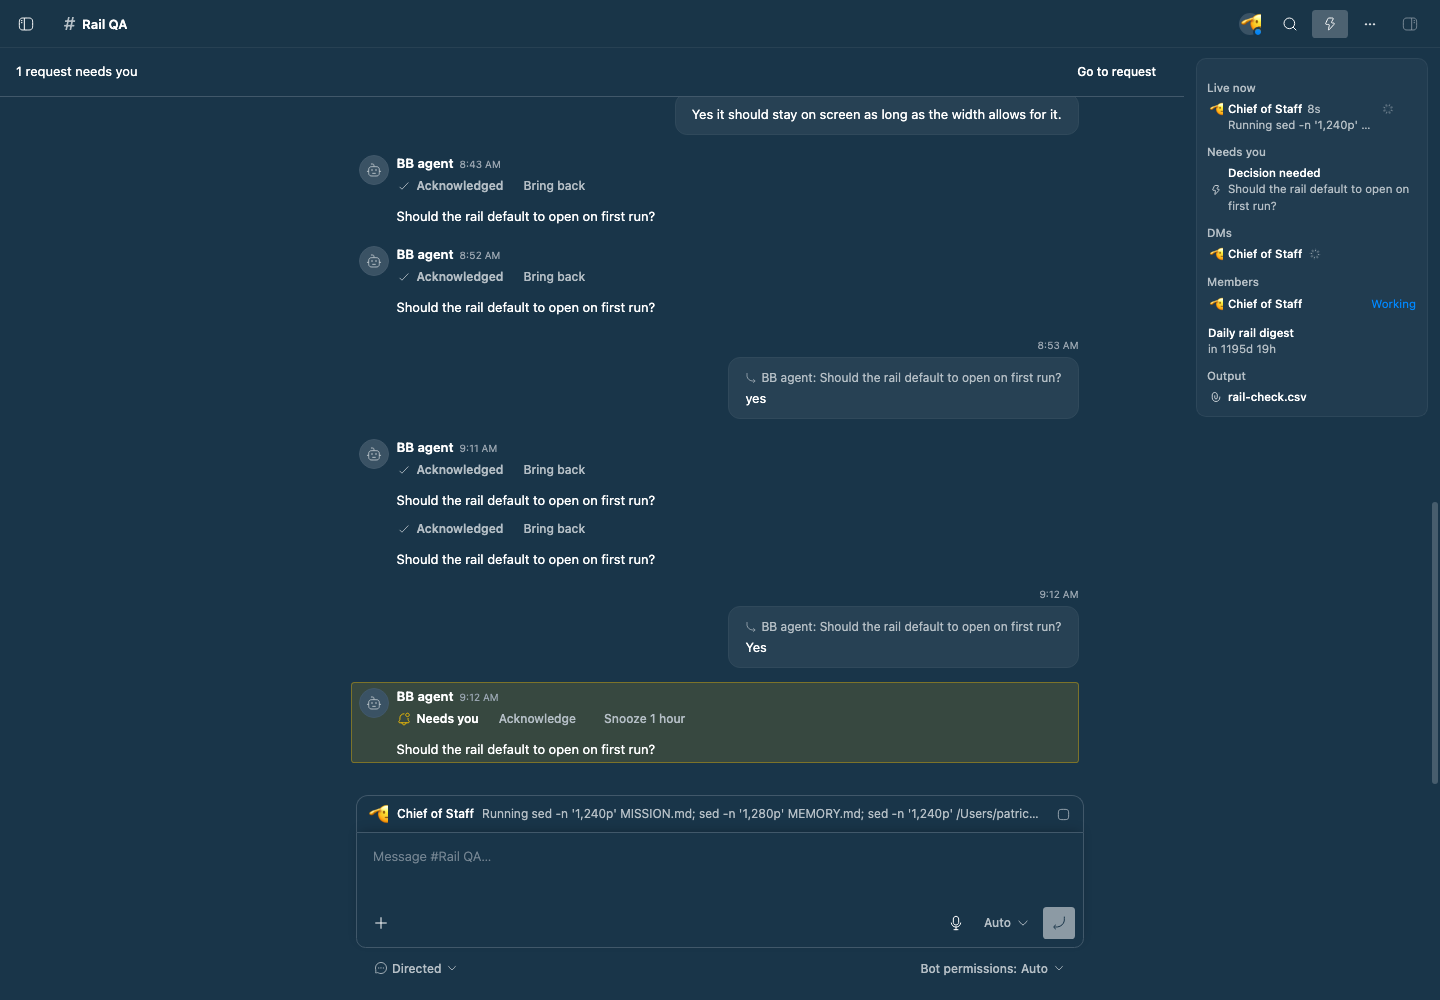
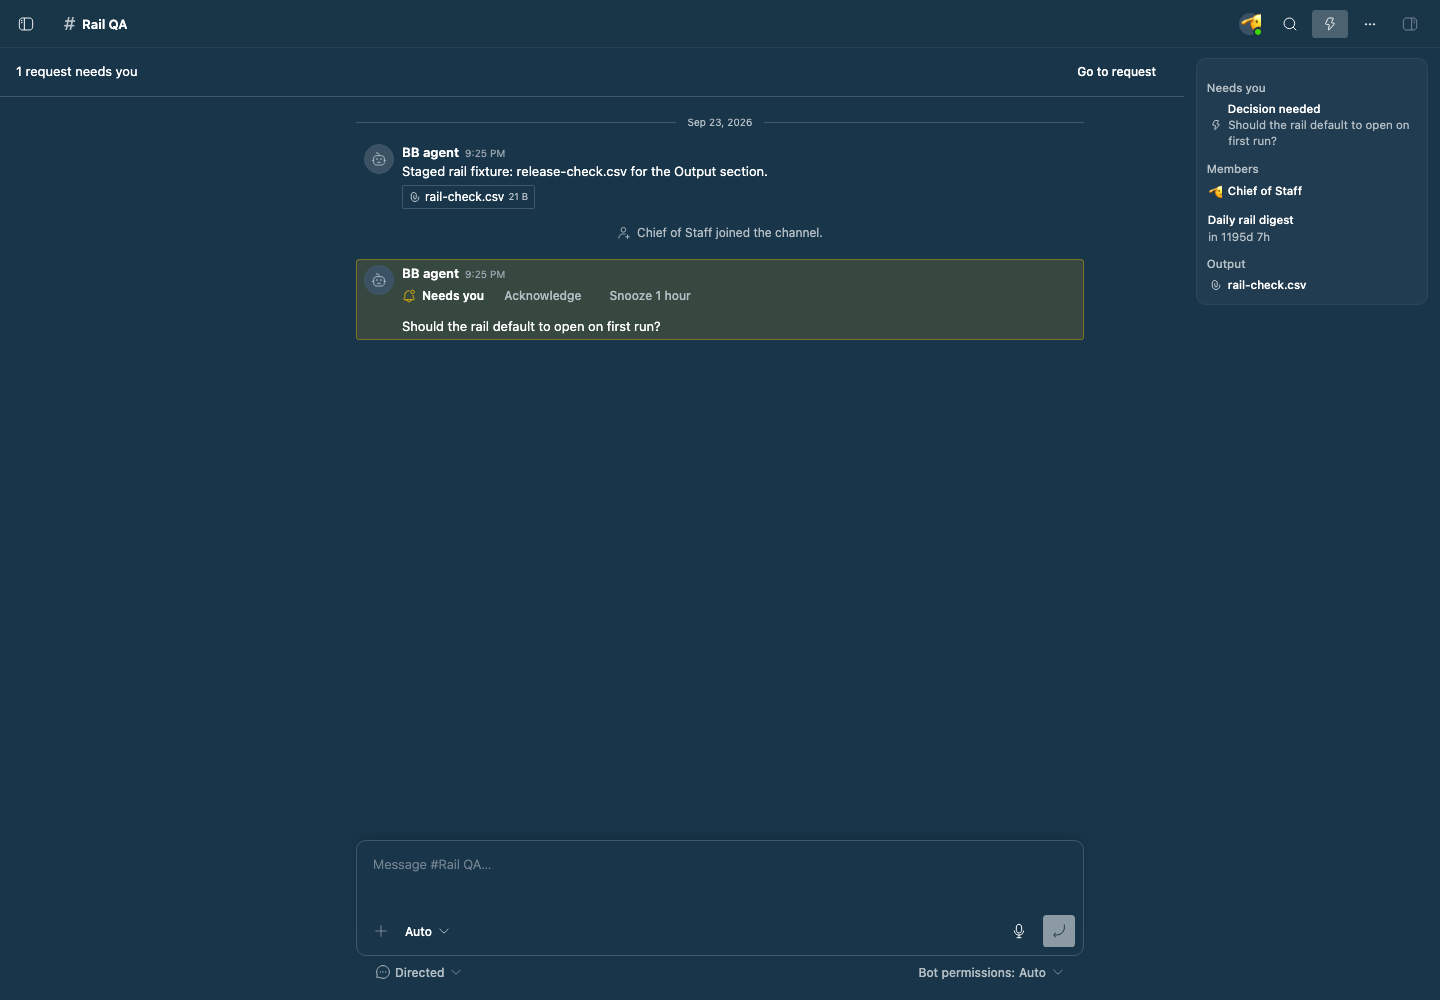
refactor(bot-teams): fold the rail's DMs into Members
A member and their DM are the same bot, so the rail listed every bot twice.

Drop the DMs section and give the member row what only the DM row had: it
opens the bot's DM, ⌘-click or drag opens it in a split, and a bell marks a DM
waiting on approval. A bot with no DM yet still opens its profile.

The member tooltip no longer repeats the bot's live activity, which Live now
already shows; only a fault is worth one.

diff --git a/packages/bb-plugin-bot-teams/channel-rail-view.tsx b/packages/bb-plugin-bot-teams/channel-rail-view.tsx
@@ -49,7 +49,6 @@ const collapsedKey = "bb:bots:rail-collapsed";
 type SectionId =
   | "live"
   | "attention"
-  | "threads"
   | "members"
   | "automation"
   | "output"
@@ -58,7 +57,6 @@ type SectionId =
 const sectionTitles: Record<SectionId, string> = {
   live: "Live now",
   attention: "Needs you",
-  threads: "DMs",
   members: "Members",
   automation: "Next automation",
   output: "Output",
@@ -286,8 +284,24 @@ function LiveRow({
   );
 }
 
-function MemberRow({ member, roomId }: { member: RailMember; roomId: string }) {
+/**
+ * A member and their DM are the same bot, so this is one row: it carries the
+ * bot's state and opens its DM when there is one.
+ */
+function MemberRow({
+  member,
+  thread,
+  roomId,
+}: {
+  member: RailMember;
+  thread: ChannelThread | undefined;
+  roomId: string;
+}) {
+  const { threadId } = useBbContext();
   const navigate = useBbNavigate();
+  const actions = useSidebarThreadActions();
+  const dm = thread?.threadId ?? member.threadId;
+  const split = useSidebarThreadSplit(dm ?? "");
   const stateLabels = {
     working: "Working",
     queued: "Queued",
@@ -297,23 +311,42 @@ function MemberRow({ member, roomId }: { member: RailMember; roomId: string }) {
   } as const;
   // An idle bot is the resting case; saying so on every row is just noise.
   const showState = member.state !== "idle";
+  const splittable = !!dm && split.isAvailable;
   return (
     <button
       type="button"
       className="channel-rail-row"
-      title={member.detail ?? stateLabels[member.state]}
-      onClick={() =>
-        member.threadId
-          ? openWorkThread(navigate, member.threadId, roomId)
-          : navigate.toPluginPanel("bots", {
-              subPath: `${member.bot.id}/profile`,
-            })
+      aria-current={dm && threadId === dm ? "page" : undefined}
+      title={
+        splittable
+          ? "Drag or ⌘-click to open in a split"
+          : // Live activity already reads in Live now; only a fault is worth a tooltip.
+            (member.state === "attention" ? (member.detail ?? undefined) : undefined)
       }
+      {...(dm ? split.splitProps : {})}
+      onClick={(event) => {
+        if (!dm)
+          return navigate.toPluginPanel("bots", {
+            subPath: `${member.bot.id}/profile`,
+          });
+        if (splittable && (event.metaKey || event.ctrlKey))
+          actions.open(dm, { split: true });
+        else openWorkThread(navigate, dm, roomId);
+      }}
     >
       <span className="channel-rail-avatar" aria-hidden>
         {member.bot.avatar || <Icon name="Bot" />}
       </span>
       <span className="channel-rail-name">{member.bot.name}</span>
+      {thread?.needsApproval && (
+        <span
+          className="channel-needs-attention"
+          role="img"
+          aria-label="Waiting for your approval"
+        >
+          <Icon name="BellDot" />
+        </span>
+      )}
       {showState && (
         <span className="channel-rail-state" data-state={member.state}>
           {stateLabels[member.state]}
@@ -332,48 +365,6 @@ type ChannelThread = {
   needsApproval: boolean;
 };
 
-function ThreadRow({ thread }: { thread: ChannelThread }) {
-  const { threadId } = useBbContext();
-  const navigate = useBbNavigate();
-  const actions = useSidebarThreadActions();
-  const split = useSidebarThreadSplit(thread.threadId);
-  return (
-    <button
-      type="button"
-      className="channel-rail-row"
-      aria-current={threadId === thread.threadId ? "page" : undefined}
-      aria-label={`Open DM with ${thread.name}`}
-      title={
-        split.isAvailable ? "Drag or ⌘-click to open in a split" : undefined
-      }
-      {...split.splitProps}
-      onClick={(event) => {
-        if (split.isAvailable && (event.metaKey || event.ctrlKey))
-          actions.open(thread.threadId, { split: true });
-        else navigate.toThread(thread.threadId);
-      }}
-    >
-      <span className="channel-rail-avatar" aria-hidden>
-        {thread.avatar || <Icon name="Bot" />}
-      </span>
-      <span className="channel-rail-name">{thread.name}</span>
-      {thread.needsApproval && (
-        <span
-          className="channel-needs-attention"
-          role="img"
-          aria-label="Waiting for your approval"
-        >
-          <Icon name="BellDot" />
-        </span>
-      )}
-      {thread.active && (
-        <span className="channel-working" role="img" aria-label="Working">
-          <Icon name="Loading" />
-        </span>
-      )}
-    </button>
-  );
-}
 
 export function ChannelRail({
   room,
@@ -587,20 +578,6 @@ export function ChannelRail({
             ))}
           </RailSection>
         )}
-        {threads.length > 0 && (
-          <RailSection
-            id="threads"
-            count={threads.length}
-            collapsed={isCollapsed("threads")}
-            onToggle={toggle}
-          >
-            <RailList
-              items={threads}
-              keyOf={(thread) => thread.threadId}
-              render={(thread) => <ThreadRow thread={thread} />}
-            />
-          </RailSection>
-        )}
         <RailSection
           id="members"
           count={members.length}
@@ -624,7 +601,11 @@ export function ChannelRail({
               items={members}
               keyOf={(member) => member.bot.id}
               render={(member) => (
-                <MemberRow member={member} roomId={room.id} />
+                <MemberRow
+                  member={member}
+                  thread={threads.find((dm) => dm.botId === member.bot.id)}
+                  roomId={room.id}
+                />
               )}
             />
           ) : (

diff --git a/packages/bb-plugin-bot-teams/README.md b/packages/bb-plugin-bot-teams/README.md
@@ -106,11 +106,11 @@ state.
   rather than silent.
 - **Needs you** collects the channel's open decisions and the requests a bot is
   blocked on, so they can be answered without leaving the channel.
-- **DMs** lists the bot DMs for this channel. Click to open
-  one, or ⌘-click (drag) to open it in a split.
 - **Members** shows every bot in the channel, labelled only when it is doing
   something: working, queued, needs attention or paused. Idle is the resting
-  case and goes unsaid.
+  case and goes unsaid. A member and their DM are the same bot, so the row is
+  also the DM: click to open it, or ⌘-click (drag) for a split. A bell marks a
+  DM waiting on your approval.
 - The soonest scheduled run counts down on its own row and can be paused.
 - **Output** collects the files bots published here.
 - **Usage** appears only once the day's turns are worth a glance, or something
